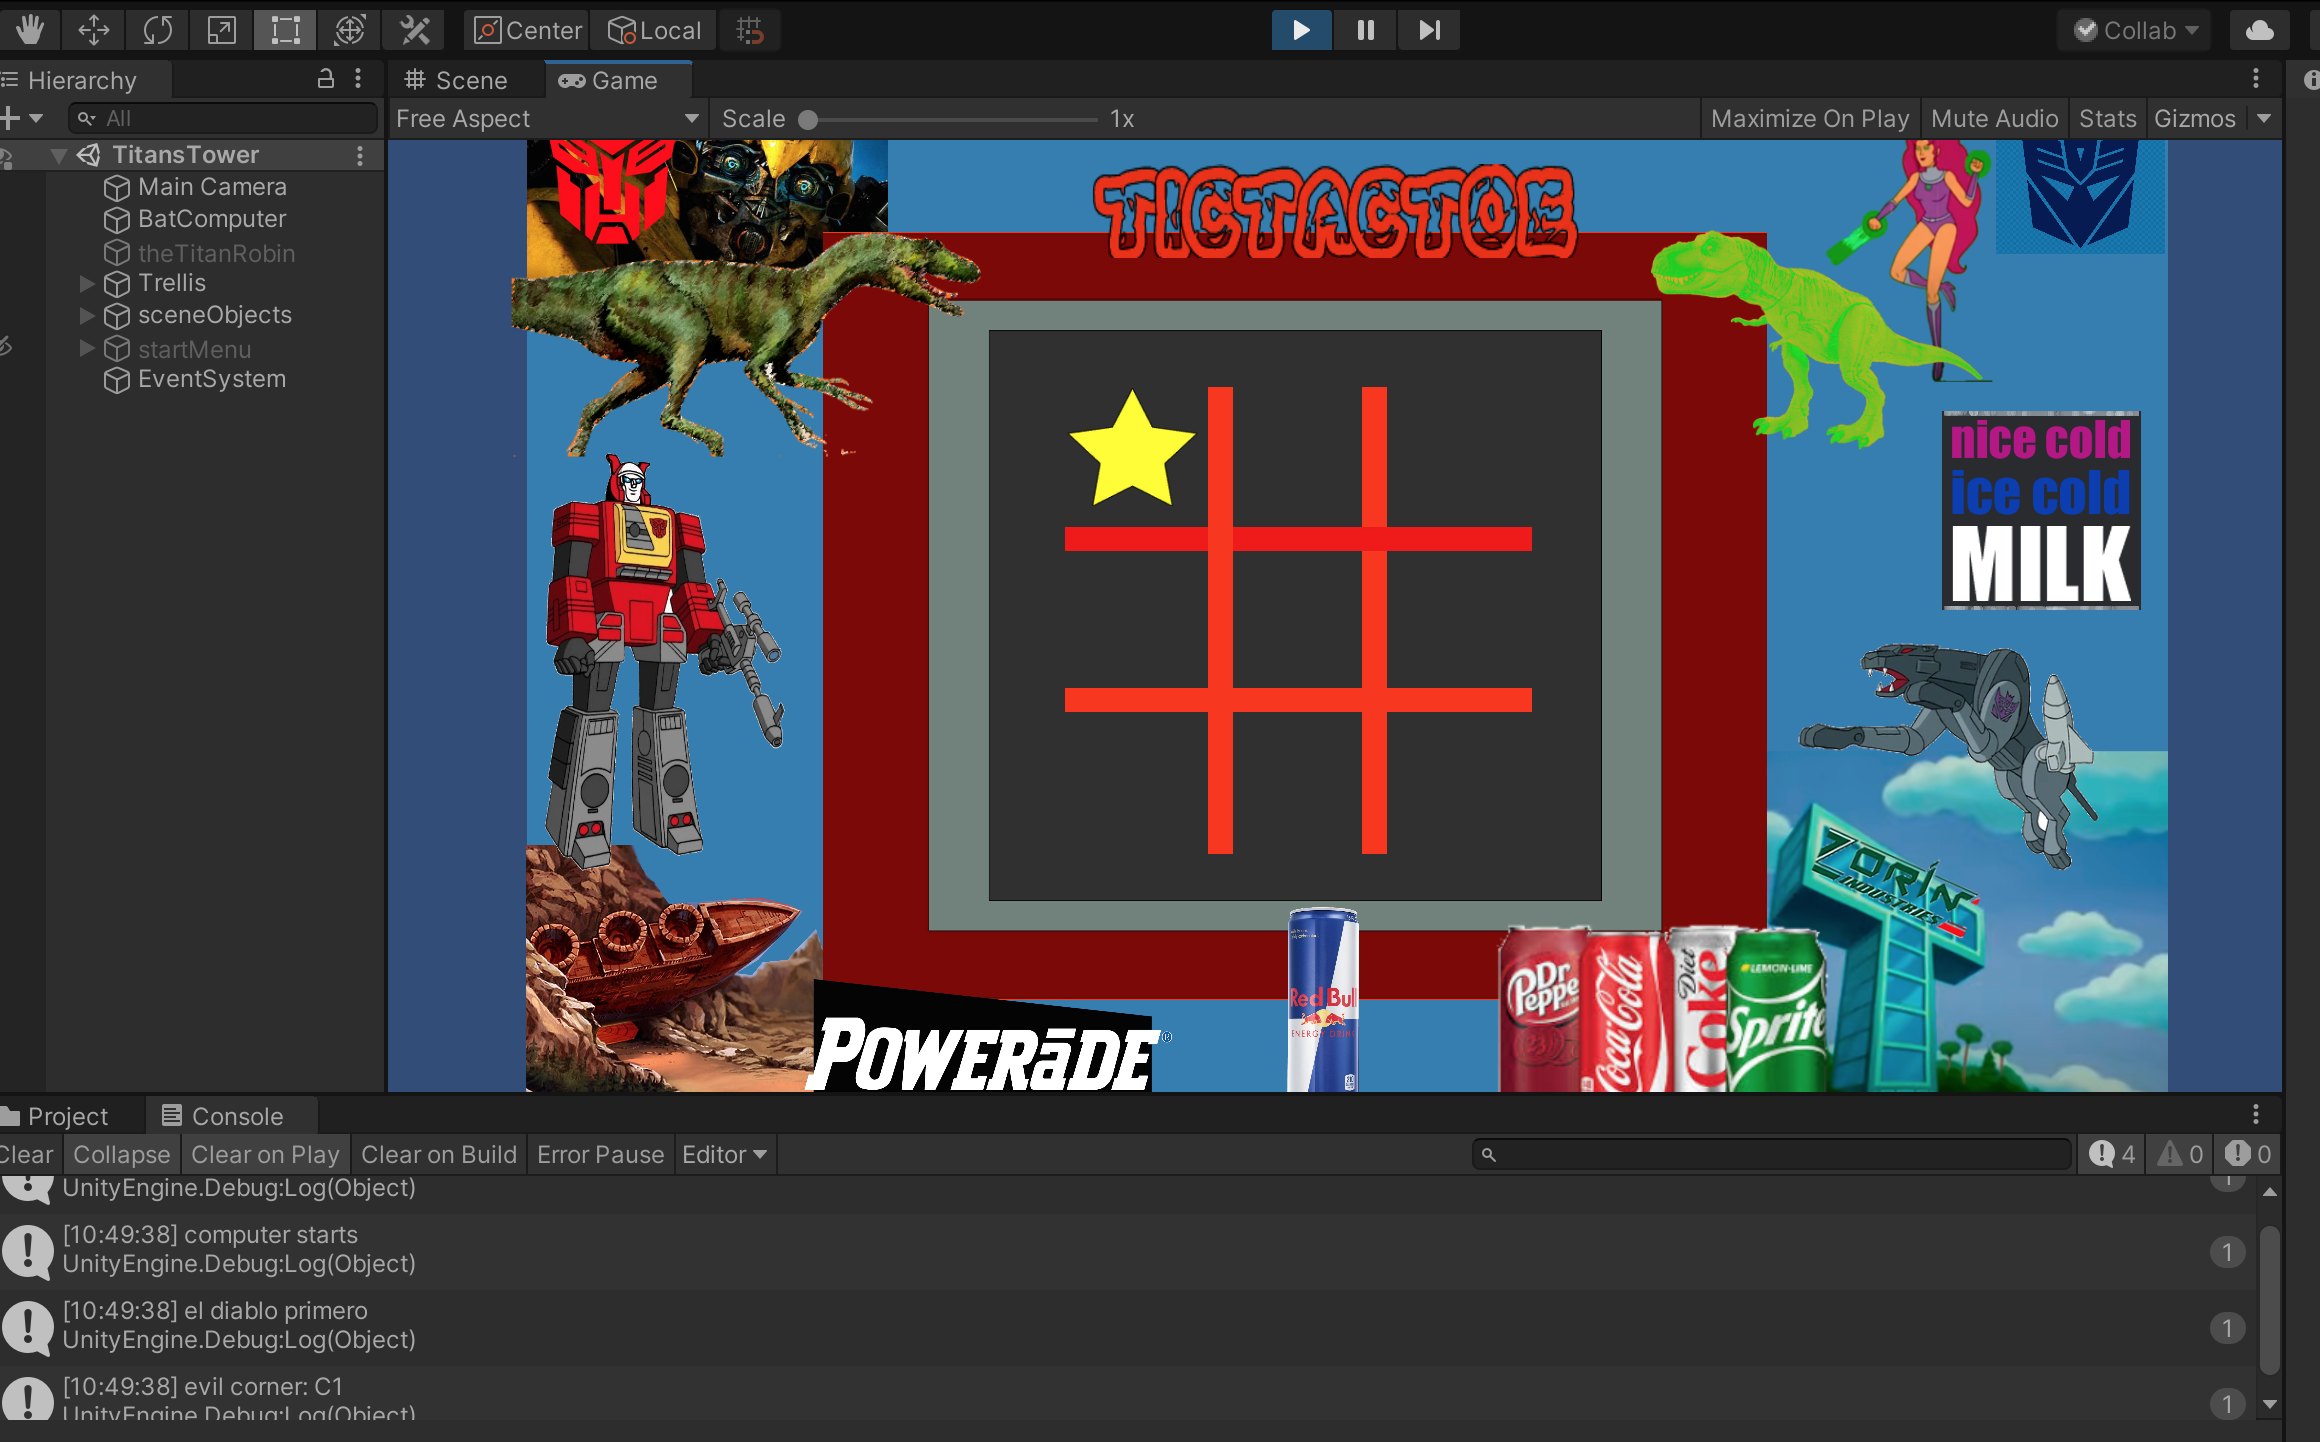
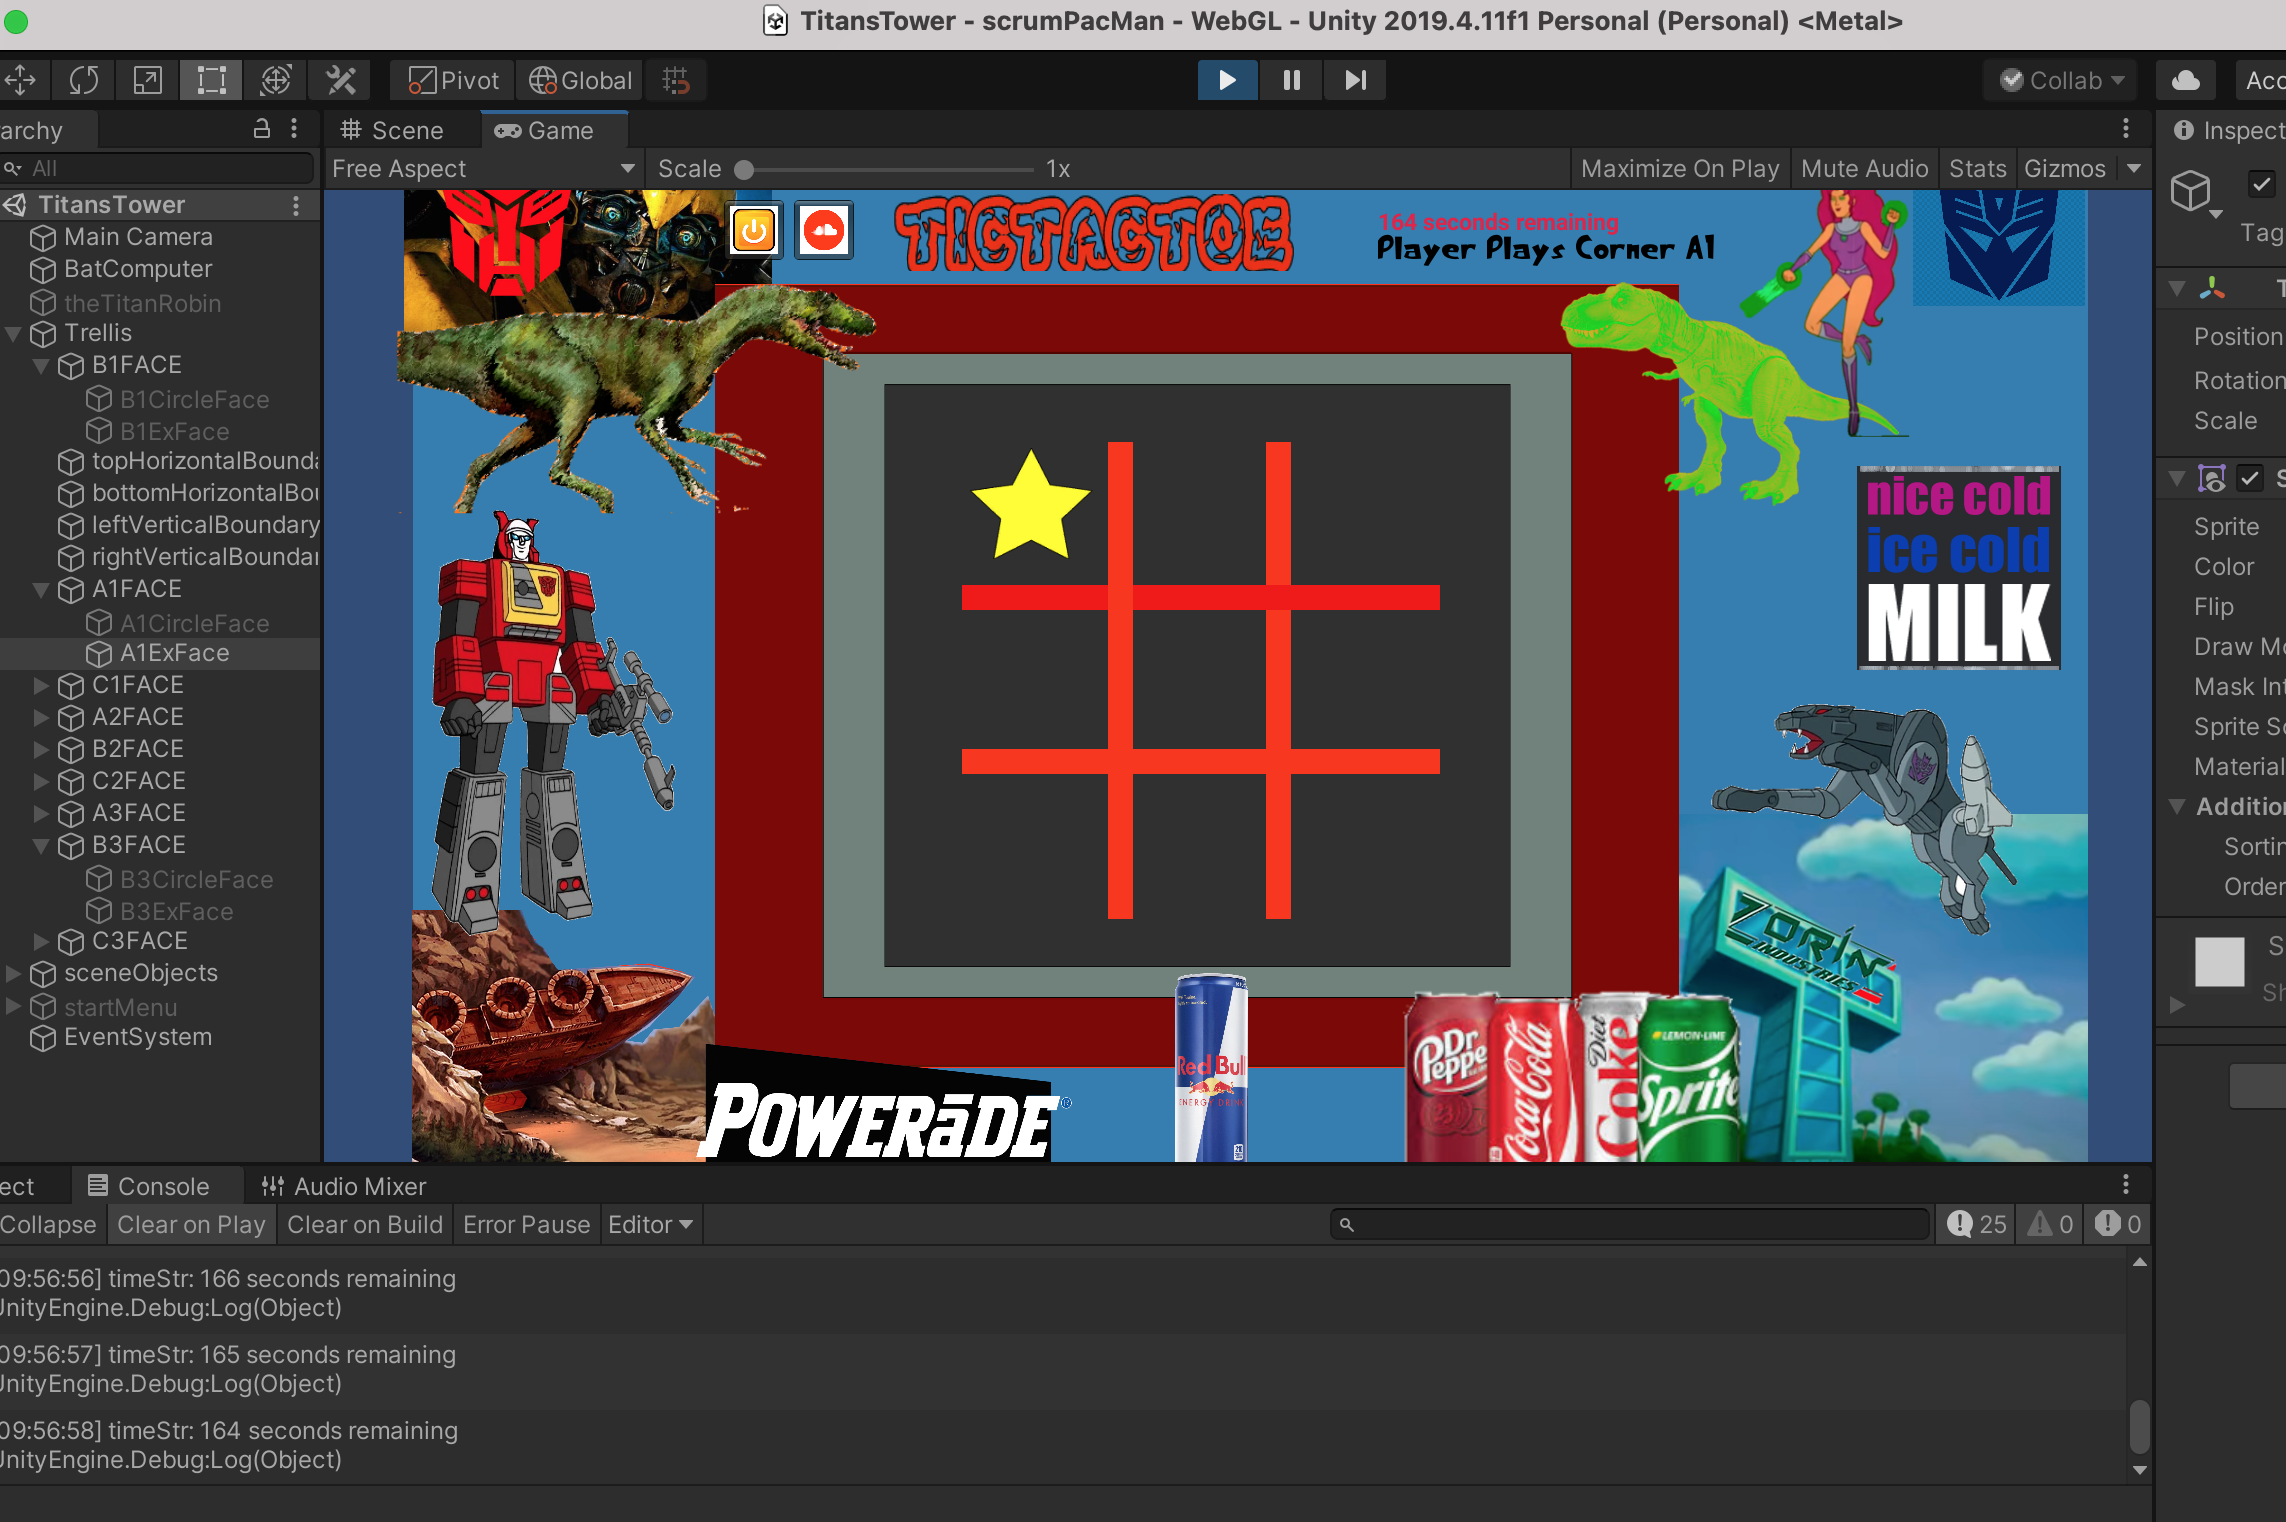
cada dia el capitalismo esta mas agresivo ..

diff --git a/Assets/Scripts/trellisFace.cs b/Assets/Scripts/trellisFace.cs
@@ -77,17 +77,23 @@ public class trellisFace : MonoBehaviour
         }
 
     public void showX(){
-        GameObject tmp = GameObject.FindWithTag(this.FaceXTag).SetActive(true);
-        if(tmp == null){
-            Debug.Log(" FALLO el Find !!! FaceX: "+ this.FaceXTag);//B1ExFace
-        }
+            Debug.Log("Facename: "+ this.exFaceName);
+            //GameObject.transform.Find(this.exFaceName).SetActive(true);
+            GameObject childObject = transform.Find(this.exFaceName)?.gameObject;
+            if (childObject != null)
+            {
+                childObject.SetActive(true);
+            }
     }
     
     public void showO(){
-        GameObject tmp = GameObject.FindWithTag(this.FaceOTag).SetActive(true);
-        if(tmp == null){
-            Debug.Log(" FALLO el Find !!! FaceO: "+ this.FaceOTag);//B1CircleFace
-        }
+            Debug.Log("Facename: "+ this.circleFaceName);//B1CircleFace
+            //GameObject.transform.Find(this.circleFaceName).SetActive(true);
+            GameObject childObject = transform.Find(this.circleFaceName)?.gameObject;
+            if (childObject != null)
+            {
+                childObject.SetActive(true);
+            }
     }
 
     public void setDiablo(){
